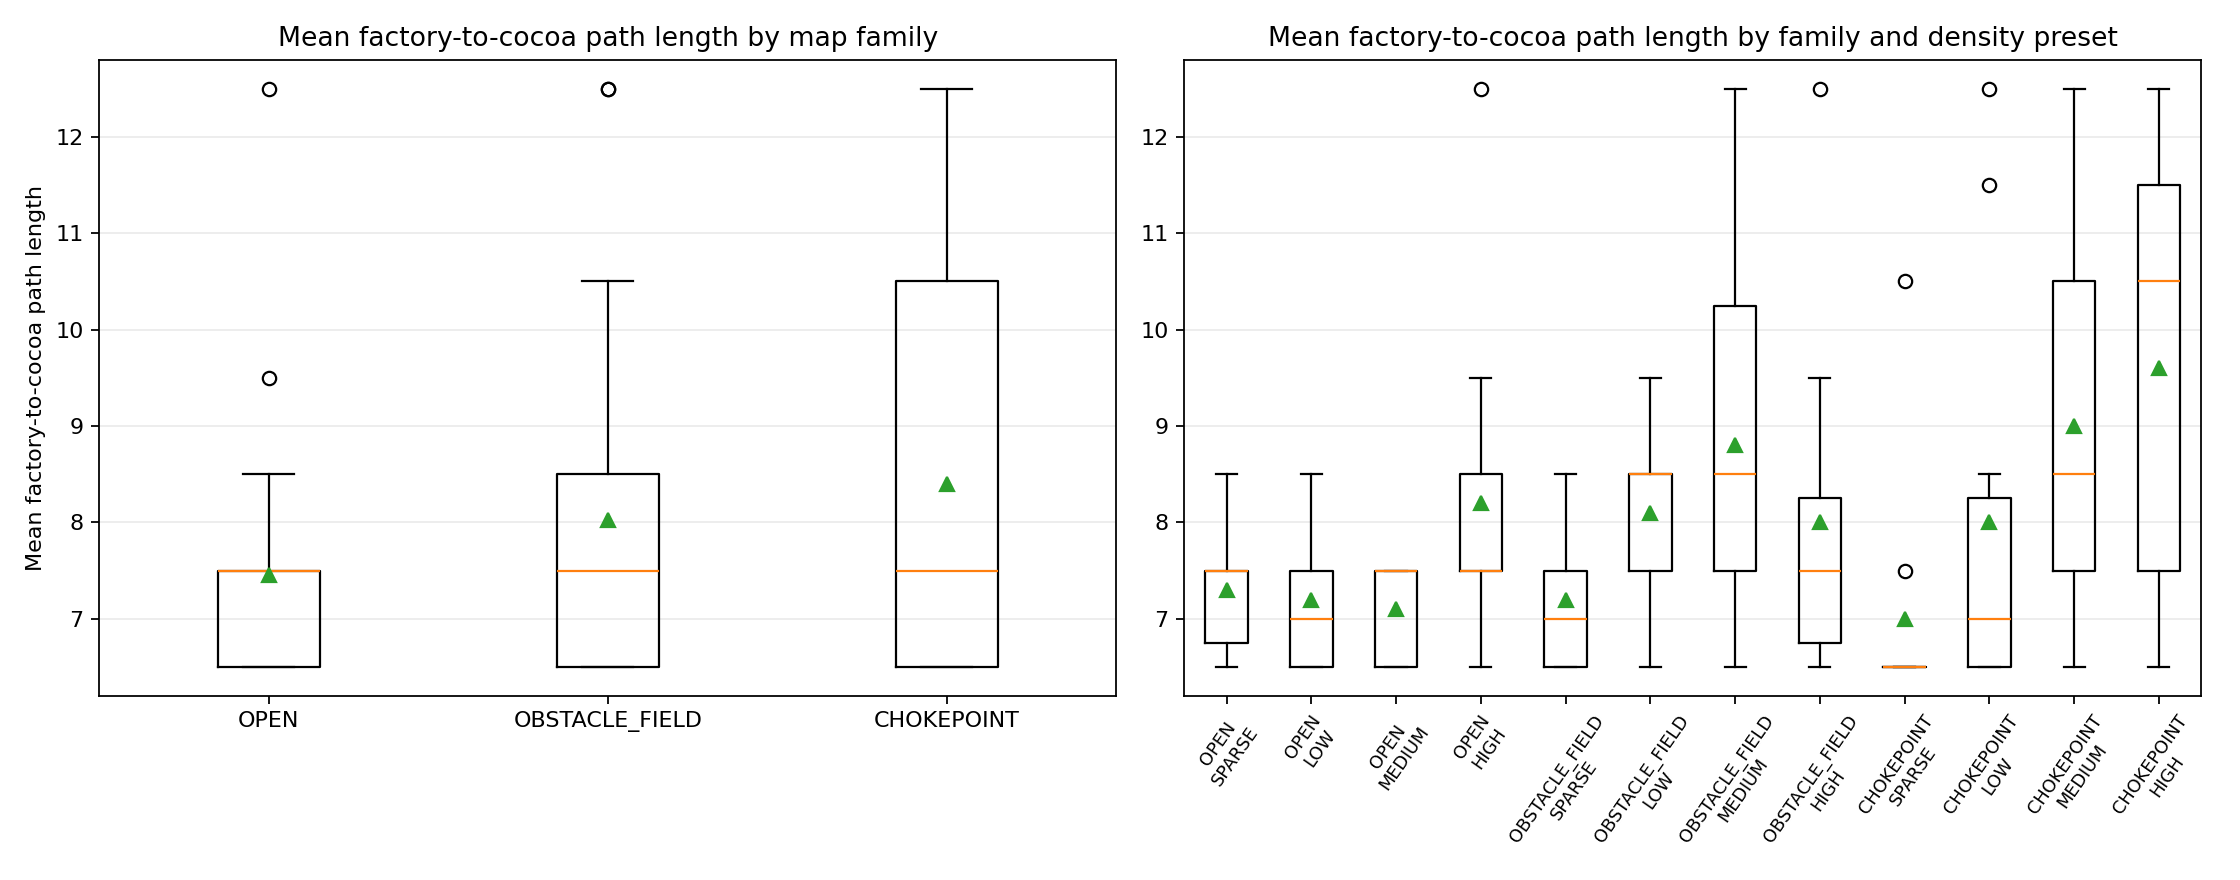
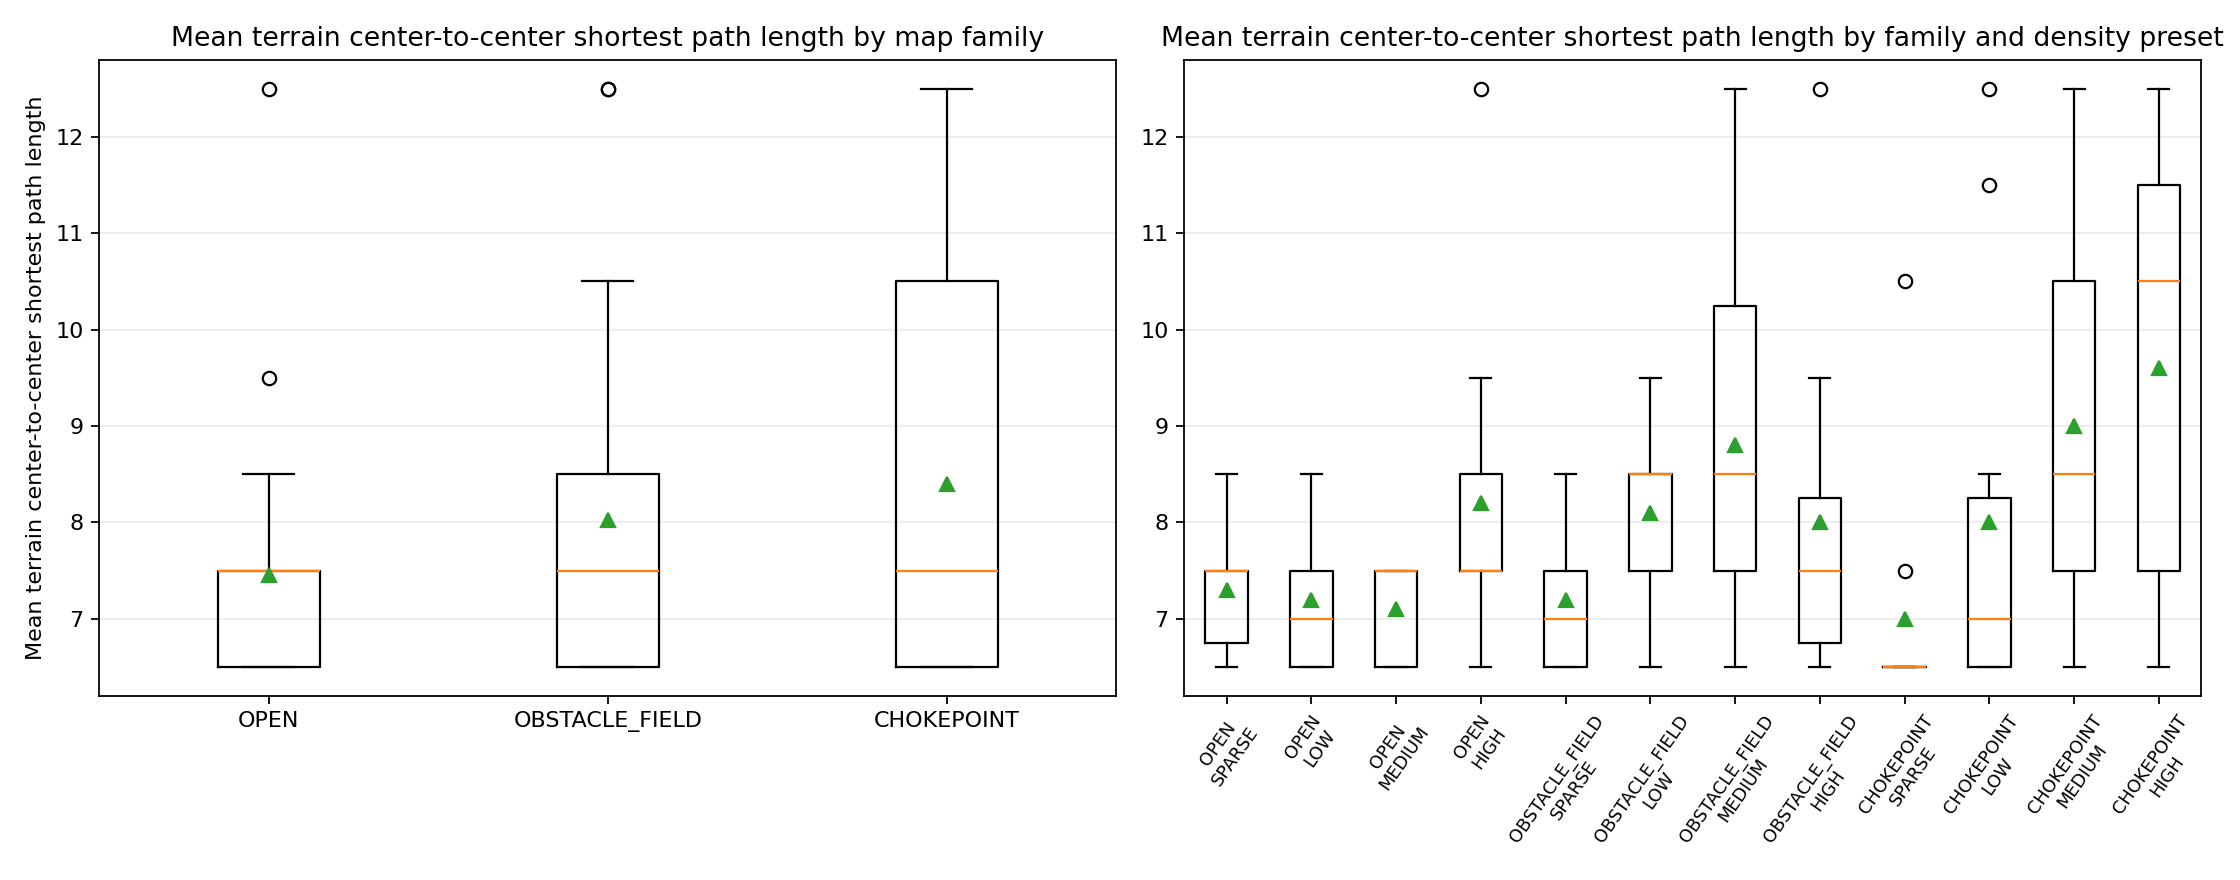
..

diff --git a/src/courseproject/factoryfeud/FactoryFeudVisual.java b/src/courseproject/factoryfeud/FactoryFeudVisual.java
@@ -8,8 +8,10 @@ import java.awt.Color;
 import java.awt.Dimension;
 import java.awt.Font;
 import java.awt.GraphicsEnvironment;
+import java.awt.GridLayout;
 import javax.swing.BorderFactory;
 import javax.swing.JLabel;
+import javax.swing.JPanel;
 import javax.swing.JScrollPane;
 import javax.swing.JSplitPane;
 import javax.swing.JTextArea;
@@ -22,6 +24,10 @@ import rts.units.UnitTypeTable;
 public final class FactoryFeudVisual {
     public static final int DEFAULT_TIME_LIMIT = 500;
     public static final int DEFAULT_CYCLE_DELAY_MS = 50;
+    private static final int WINDOW_WIDTH = 980;
+    private static final int WINDOW_HEIGHT = 760;
+    private static final int HUD_HEIGHT = 58;
+    private static final double BOARD_RESIZE_WEIGHT = 0.70;
     private static final String PLACEHOLDER_MATCHUP =
             "PLACEHOLDER: P0 WorkerRush vs P1 WorkerRush";
 
@@ -35,9 +41,9 @@ public final class FactoryFeudVisual {
                 UnitTypeTable.VERSION_ORIGINAL_FINETUNED,
                 UnitTypeTable.MOVE_CONFLICT_RESOLUTION_CANCEL_BOTH);
         GameState gameState = config.loadScenario(utt);
-        String mapLabel = config.getMapName() + " ("
-                + gameState.getPhysicalGameState().getWidth() + "x"
-                + gameState.getPhysicalGameState().getHeight() + ")";
+        String mapLabel = config.getMapDisplayName(
+                gameState.getPhysicalGameState().getWidth(),
+                gameState.getPhysicalGameState().getHeight());
         System.out.println("Factory Feud visual map: " + config.getMapPath());
         System.out.println("Factory Feud visual dimensions: "
                 + gameState.getPhysicalGameState().getWidth() + "x"
@@ -79,8 +85,8 @@ public final class FactoryFeudVisual {
 
         WindowParts window = createWindow(match, visualModel, matchupLabel);
         match.run(currentMatch -> {
-            refreshWindow(window, currentMatch, visualModel);
-            if (cycleDelayMs > 0 && window.frame.isDisplayable()) {
+            boolean windowOpen = refreshWindow(window, currentMatch, visualModel);
+            if (cycleDelayMs > 0 && windowOpen) {
                 Thread.sleep(cycleDelayMs);
             }
         });
@@ -112,35 +118,49 @@ public final class FactoryFeudVisual {
         final WindowParts[] windowHolder = new WindowParts[1];
         SwingUtilities.invokeAndWait(() -> {
             PhysicalGameStateJFrame frame = PhysicalGameStatePanel.newVisualizer(
-                    match.getGameState(), 980, 760, false,
+                    match.getGameState(), WINDOW_WIDTH, WINDOW_HEIGHT, false,
                     PhysicalGameStatePanel.COLORSCHEME_BLACK);
             frame.setTitle("Factory Feud - " + matchupLabel);
-            JLabel hud = createHud(model.hudText(match));
+            HudParts hud = createHud(model.hudStatusText(match), matchupLabel);
             JTextArea rolePanel = createRolePanel(model.rolePanelText(match.getGameState()));
             JScrollPane roleScroller = createRoleScroller(rolePanel);
             frame.getContentPane().remove(frame.getPanel());
             JSplitPane mainSplit = createMainSplit(frame, roleScroller);
-            frame.getContentPane().add(hud, java.awt.BorderLayout.SOUTH);
+            frame.getContentPane().add(hud.panel, java.awt.BorderLayout.SOUTH);
             frame.getContentPane().add(mainSplit, java.awt.BorderLayout.CENTER);
             frame.getPanel().setMinimumSize(new Dimension(360, 360));
-            frame.setMinimumSize(new Dimension(720, 540));
-            frame.setResizable(true);
             frame.validate();
-            mainSplit.setDividerLocation(0.70);
+            mainSplit.setDividerLocation(BOARD_RESIZE_WEIGHT);
+            frame.setSize(WINDOW_WIDTH, WINDOW_HEIGHT);
+            frame.setResizable(false);
             frame.repaint();
-            windowHolder[0] = new WindowParts(frame, hud, rolePanel);
+            windowHolder[0] = new WindowParts(frame, hud.status, rolePanel);
         });
         return windowHolder[0];
     }
 
-    private static JLabel createHud(String text) {
-        JLabel hud = new JLabel(text, SwingConstants.CENTER);
+    private static HudParts createHud(String statusText, String matchupText) {
+        JPanel hud = new JPanel(new GridLayout(2, 1));
         hud.setOpaque(true);
         hud.setBackground(new Color(34, 39, 46));
-        hud.setForeground(Color.WHITE);
-        hud.setFont(hud.getFont().deriveFont(Font.BOLD, 15.0f));
-        hud.setBorder(BorderFactory.createEmptyBorder(10, 8, 10, 8));
-        return hud;
+        hud.setBorder(BorderFactory.createEmptyBorder(6, 8, 6, 8));
+        Dimension fixedSize = new Dimension(0, HUD_HEIGHT);
+        hud.setPreferredSize(fixedSize);
+        hud.setMinimumSize(fixedSize);
+        hud.setMaximumSize(new Dimension(Integer.MAX_VALUE, HUD_HEIGHT));
+
+        JLabel status = createHudLine(statusText);
+        JLabel matchup = createHudLine(matchupText);
+        hud.add(status);
+        hud.add(matchup);
+        return new HudParts(hud, status);
+    }
+
+    private static JLabel createHudLine(String text) {
+        JLabel line = new JLabel(text, SwingConstants.CENTER);
+        line.setForeground(Color.WHITE);
+        line.setFont(line.getFont().deriveFont(Font.BOLD, 15.0f));
+        return line;
     }
 
     private static JTextArea createRolePanel(String text) {
@@ -158,7 +178,7 @@ public final class FactoryFeudVisual {
 
     private static JScrollPane createRoleScroller(JTextArea rolePanel) {
         JScrollPane scroller = new JScrollPane(rolePanel,
-                JScrollPane.VERTICAL_SCROLLBAR_AS_NEEDED,
+                JScrollPane.VERTICAL_SCROLLBAR_ALWAYS,
                 JScrollPane.HORIZONTAL_SCROLLBAR_NEVER);
         scroller.setPreferredSize(new Dimension(280, 680));
         scroller.setMinimumSize(new Dimension(230, 0));
@@ -174,21 +194,38 @@ public final class FactoryFeudVisual {
         split.setBorder(BorderFactory.createEmptyBorder());
         split.setContinuousLayout(true);
         split.setOneTouchExpandable(true);
-        split.setResizeWeight(0.70);
+        split.setResizeWeight(BOARD_RESIZE_WEIGHT);
         return split;
     }
 
-    private static void refreshWindow(
+    private static boolean refreshWindow(
             WindowParts window, FactoryFeudMatch match, FactoryFeudVisualModel model)
             throws Exception {
-        if (!window.frame.isDisplayable()) return;
+        final boolean[] displayable = new boolean[1];
         SwingUtilities.invokeAndWait(() -> {
+            displayable[0] = window.frame.isDisplayable();
+            if (!displayable[0]) return;
             window.frame.setStateCloning(match.getGameState());
-            window.hud.setText(model.hudText(match));
-            window.rolePanel.setText(model.rolePanelText(match.getGameState()));
-            window.rolePanel.setCaretPosition(0);
-            window.frame.repaint();
+            String hudText = model.hudStatusText(match);
+            if (!hudText.equals(window.hud.getText())) window.hud.setText(hudText);
+            String roleText = model.rolePanelText(match.getGameState());
+            if (!roleText.equals(window.rolePanel.getText())) {
+                window.rolePanel.setText(roleText);
+                window.rolePanel.setCaretPosition(0);
+            }
+            window.frame.getPanel().repaint();
         });
+        return displayable[0];
+    }
+
+    private static final class HudParts {
+        private final JPanel panel;
+        private final JLabel status;
+
+        private HudParts(JPanel panel, JLabel status) {
+            this.panel = panel;
+            this.status = status;
+        }
     }
 
     private static final class WindowParts {

diff --git a/scripts/factory_feud_d2_plot.py b/scripts/factory_feud_d2_plot.py
@@ -3,6 +3,7 @@
 
 import argparse
 import csv
+import math
 import os
 import statistics
 import tempfile
@@ -20,7 +21,10 @@ import matplotlib.pyplot as plt
 
 METRICS = (
     ("actual_density", "Actual obstacle density"),
-    ("mean_path_length", "Mean factory-to-cocoa path length"),
+    (
+        "mean_path_length",
+        "Mean terrain center-to-center shortest path length",
+    ),
     ("route_imbalance", "Route imbalance"),
     ("dead_end_count", "Dead-end count"),
 )
@@ -158,16 +162,40 @@ def write_observations(rows, output):
             family: statistics.fmean(row[metric] for row in by_family[family])
             for family in FAMILY_ORDER
         }
-        highest = max(means, key=means.get)
-        lowest = min(means, key=means.get)
+        highest_value = max(means.values())
+        lowest_value = min(means.values())
+        highest = [
+            family
+            for family in FAMILY_ORDER
+            if math.isclose(means[family], highest_value, rel_tol=1e-12, abs_tol=1e-12)
+        ]
+        lowest = [
+            family
+            for family in FAMILY_ORDER
+            if math.isclose(means[family], lowest_value, rel_tol=1e-12, abs_tol=1e-12)
+        ]
+        if len(highest) == 1:
+            highest_text = f"highest family mean was `{highest[0]}`"
+        else:
+            highest_text = "highest family mean was tied between " + " and ".join(
+                f"`{family}`" for family in highest
+            )
+        if len(lowest) == 1:
+            lowest_text = f"lowest was `{lowest[0]}`"
+        else:
+            lowest_text = "lowest was tied between " + " and ".join(
+                f"`{family}`" for family in lowest
+            )
         lines.append(
-            f"- {label}: highest family mean was `{highest}` ({means[highest]:.3f}); "
-            f"lowest was `{lowest}` ({means[lowest]:.3f})."
+            f"- {label}: {highest_text} ({highest_value:.3f}); "
+            f"{lowest_text} ({lowest_value:.3f})."
         )
     lines.extend(
         [
             "",
-            "The family-and-preset panels retain all individual observations through boxplot distributions. Differences should be interpreted alongside the requested densities because preset numeric values are family-specific.",
+            "Path length is a terrain-level center-to-center proxy from each Base tile to the Resource tile. It is not the exact Worker travel distance because both endpoint tiles are occupied. On the fixed 16x12 batch layout, the unobstructed center-to-center distances are 7 cells for player 0 and 6 for player 1, so route imbalance has a built-in one-cell baseline.",
+            "",
+            "The family-and-preset boxplots summarize the distributions; they do not display every individual observation. OPEN also uses lower obstacle-density presets than OBSTACLE_FIELD and CHOKEPOINT, so differences between OPEN and the other families cannot be attributed solely to the family-generation algorithm.",
             "",
         ]
     )

diff --git a/test/courseproject/FactoryFeudVisualConfigTest.java b/test/courseproject/FactoryFeudVisualConfigTest.java
@@ -1,0 +1,52 @@
+package courseproject;
+
+import static org.junit.Assert.assertEquals;
+
+import courseproject.factoryfeud.FactoryFeudVisualConfig;
+import org.junit.Test;
+
+public class FactoryFeudVisualConfigTest {
+    @Test
+    public void formatsOpenGeneratedMapName() {
+        assertDisplayName(
+                "factory-feud-pcg-v1-open-022-low-seed-584021-16x12.xml",
+                16, 12, "OPEN-022 | Low | 16\u00d712");
+    }
+
+    @Test
+    public void formatsObstacleFieldGeneratedMapName() {
+        assertDisplayName(
+                "factory-feud-pcg-v1-obstacle-field-015-medium-seed-1584014-16x12.xml",
+                16, 12, "OBSTACLE_FIELD-015 | Medium | 16\u00d712");
+    }
+
+    @Test
+    public void formatsChokepointGeneratedMapName() {
+        assertDisplayName(
+                "factory-feud-pcg-v1-chokepoint-001-sparse-seed-2584000-16x12.xml",
+                16, 12, "CHOKEPOINT-001 | Sparse | 16\u00d712");
+    }
+
+    @Test
+    public void retainsHandcraftedMapNameAndDimensions() {
+        assertDisplayName(
+                "factory-feud-narrow-passage-12x12.xml",
+                12, 12, "factory-feud-narrow-passage-12x12.xml (12x12)");
+    }
+
+    @Test
+    public void fallsBackGracefullyForUnexpectedGeneratedName() {
+        assertDisplayName(
+                "factory-feud-pcg-v1-maze-999-odd-seed-1-16x12.xml",
+                16, 12,
+                "factory-feud-pcg-v1-maze-999-odd-seed-1-16x12.xml (16x12)");
+    }
+
+    private static void assertDisplayName(
+            String fileName, int mapWidth, int mapHeight, String expected) {
+        FactoryFeudVisualConfig config = FactoryFeudVisualConfig.parse(new String[]{
+            "500", "0", "maps/factory-feud/generated/" + fileName
+        });
+        assertEquals(expected, config.getMapDisplayName(mapWidth, mapHeight));
+    }
+}

diff --git a/src/courseproject/factoryfeud/FactoryFeudVisualConfig.java b/src/courseproject/factoryfeud/FactoryFeudVisualConfig.java
@@ -1,11 +1,20 @@
 package courseproject.factoryfeud;
 
 import java.io.File;
+import java.util.Locale;
+import java.util.regex.Matcher;
+import java.util.regex.Pattern;
 import rts.GameState;
 import rts.units.UnitTypeTable;
 
 /** Immutable, headless-testable configuration for the Factory Feud visual runner. */
 public final class FactoryFeudVisualConfig {
+    private static final Pattern GENERATED_MAP_NAME = Pattern.compile(
+            "^factory-feud-pcg-v[0-9]+-(open|obstacle-field|chokepoint)-"
+                    + "([0-9]+)-(sparse|low|medium|high)-seed-[0-9]+-"
+                    + "([0-9]+)x([0-9]+)\\.xml$",
+            Pattern.CASE_INSENSITIVE);
+
     private final int timeLimit;
     private final int cycleDelayMs;
     private final String mapPath;
@@ -75,6 +84,21 @@ public final class FactoryFeudVisualConfig {
 
     public String getMapName() {
         return new File(mapPath).getName();
+    }
+
+    /** Returns a compact generated-map label or the existing handcrafted-map label. */
+    public String getMapDisplayName(int mapWidth, int mapHeight) {
+        String mapName = getMapName();
+        Matcher generated = GENERATED_MAP_NAME.matcher(mapName);
+        if (!generated.matches()) {
+            return mapName + " (" + mapWidth + "x" + mapHeight + ")";
+        }
+
+        String family = generated.group(1).toUpperCase(Locale.ROOT).replace('-', '_');
+        String density = generated.group(3).toLowerCase(Locale.ROOT);
+        density = Character.toUpperCase(density.charAt(0)) + density.substring(1);
+        return family + "-" + generated.group(2) + " | " + density + " | "
+                + generated.group(4) + "\u00d7" + generated.group(5);
     }
 
     public boolean isPlaceholderMode() {

diff --git a/src/courseproject/factoryfeud/FactoryFeudVisualModel.java b/src/courseproject/factoryfeud/FactoryFeudVisualModel.java
@@ -32,11 +32,17 @@ public final class FactoryFeudVisualModel {
     }
 
     public String hudText(FactoryFeudMatch match) {
+        return "<html><div style='text-align:center'>" + hudStatusText(match)
+                + "<br>" + matchupLabel + "</div></html>";
+    }
+
+    /** Single-line status text for the fixed-height Swing HUD. */
+    public String hudStatusText(FactoryFeudMatch match) {
         String status = match.isFinished() ? winnerText(match) : "Match running";
-        return "<html><div style='text-align:center'>Factory Feud | Cocoa delivered: P0 "
+        return "Factory Feud | Cocoa delivered: P0 "
                 + match.getScore(0) + " - P1 " + match.getScore(1)
                 + " | Cycles remaining: " + match.getRemainingCycles()
-                + " | " + status + "<br>" + matchupLabel + "</div></html>";
+                + " | " + status;
     }
 
     public String rolePanelText(GameState gameState) {

diff --git a/docs/FACTORY_FEUD_D2.md b/docs/FACTORY_FEUD_D2.md
@@ -88,8 +88,10 @@ Handcrafted XML files are outside the generated directory.
 
 `results/factory-feud-d2/factory-feud-generated-maps.csv` contains one row per
 accepted map with family, density preset, map seed, dimensions, requested and
-actual obstacle density, both factory-to-cocoa paths, route imbalance, dead-end
-count, attempts required, and XML path.
+actual obstacle density, both terrain center-to-center shortest path lengths,
+route imbalance, dead-end count, attempts required, and XML path. The existing
+`player0_path_length` and `player1_path_length` column names are retained for
+compatibility.
 
 `factory-feud-generation-attempts.csv` contains every raw attempt, including
 invalid candidates and rejection reasons. `factory-feud-validity-summary.csv`
@@ -124,6 +126,18 @@ ant -Dfactoryfeud.visual.map=maps/factory-feud/generated/factory-feud-pcg-v1-ope
 
 - Validity guarantees connectivity and rules compliance, not balanced tactical
   difficulty or equal path lengths. Route imbalance is measured for analysis.
+- Each reported path length is a terrain-level center-to-center proxy from a
+  Base tile to the Resource tile. It is not the exact traversable Worker route,
+  because the Base and Resource tiles are occupied and Workers interact from
+  adjacent cells.
+- With the fixed 16×12 batch placement, player 0's Base-to-Resource center
+  distance is seven cells and player 1's is six before obstacles. Route
+  imbalance therefore has a built-in one-cell baseline.
+- OPEN uses lower density presets than OBSTACLE_FIELD and CHOKEPOINT. Differences
+  between OPEN and those families cannot be attributed solely to the generation
+  algorithm; density and family are confounded in that comparison.
+- The submitted 120-map batch uses one fixed 16×12 size. Width and height remain
+  configurable and are tested, but dimension variation is outside this batch.
 - Dead ends are terrain-topology measurements and ignore temporary unit
   occupancy.
 - The batch is descriptive; formal significance testing is outside this phase.

diff --git a/results/factory-feud-d2/plots/factory-feud-observations.md b/results/factory-feud-d2/plots/factory-feud-observations.md
@@ -2,9 +2,11 @@
 
 These statements are descriptive summaries of the generated batch; they do not claim statistical significance or causal effects.
 
-- Actual obstacle density: highest family mean was `OBSTACLE_FIELD` (0.160); lowest was `OPEN` (0.095).
-- Mean factory-to-cocoa path length: highest family mean was `CHOKEPOINT` (8.400); lowest was `OPEN` (7.450).
+- Actual obstacle density: highest family mean was tied between `OBSTACLE_FIELD` and `CHOKEPOINT` (0.160); lowest was `OPEN` (0.095).
+- Mean terrain center-to-center shortest path length: highest family mean was `CHOKEPOINT` (8.400); lowest was `OPEN` (7.450).
 - Route imbalance: highest family mean was `CHOKEPOINT` (3.950); lowest was `OPEN` (1.900).
 - Dead-end count: highest family mean was `CHOKEPOINT` (3.350); lowest was `OPEN` (2.500).
 
-The family-and-preset panels retain all individual observations through boxplot distributions. Differences should be interpreted alongside the requested densities because preset numeric values are family-specific.
+Path length is a terrain-level center-to-center proxy from each Base tile to the Resource tile. It is not the exact Worker travel distance because both endpoint tiles are occupied. On the fixed 16x12 batch layout, the unobstructed center-to-center distances are 7 cells for player 0 and 6 for player 1, so route imbalance has a built-in one-cell baseline.
+
+The family-and-preset boxplots summarize the distributions; they do not display every individual observation. OPEN also uses lower obstacle-density presets than OBSTACLE_FIELD and CHOKEPOINT, so differences between OPEN and the other families cannot be attributed solely to the family-generation algorithm.
